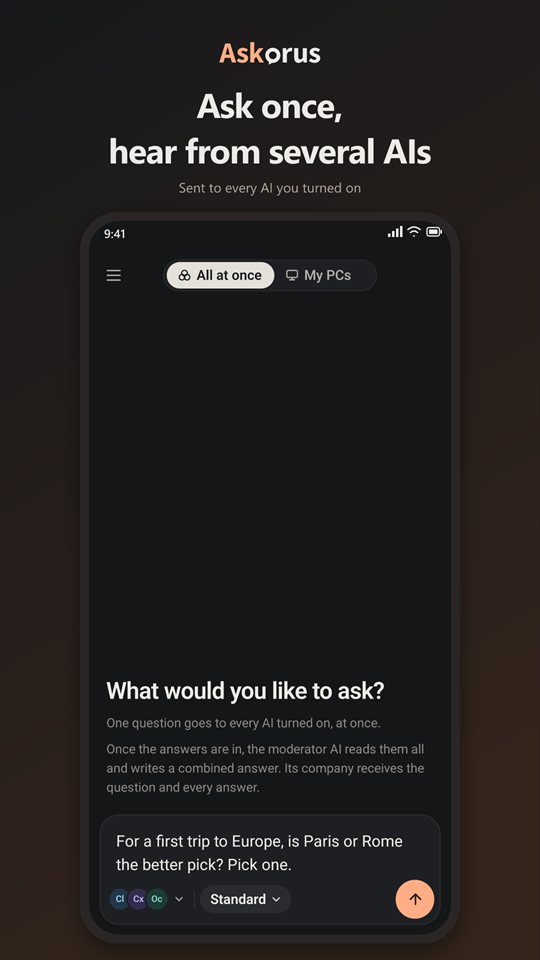
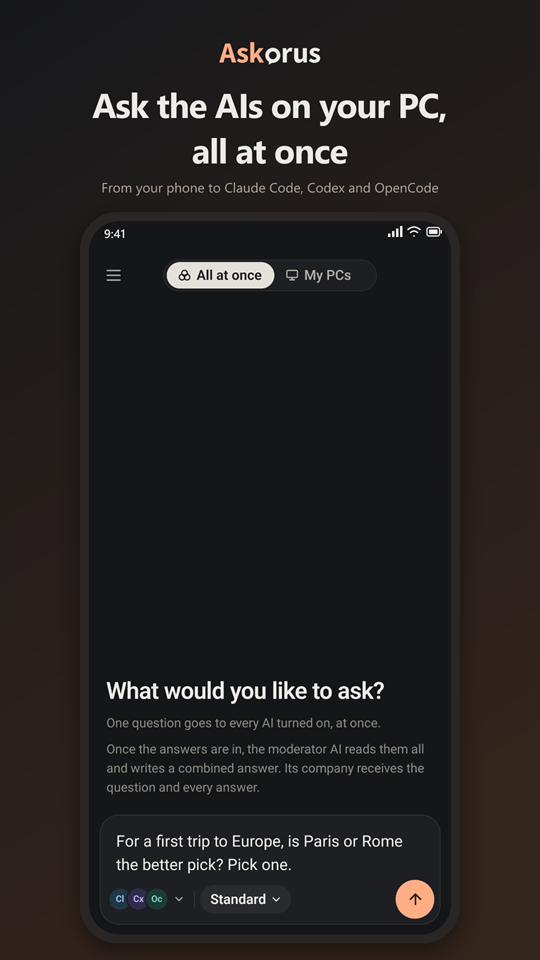
Store text and first screenshot say that a PC is needed (#32)
Someone who is not a developer could install the app from the store text
and the screenshots alone, and only then learn that it needs a PC.

- Short description: names Claude Code, Codex and OpenCode on your PC.
- Full description: a paragraph right after the first one says a PC is
  needed and points to "See an example"; "What you need" comes before
  "How it works"; step 2 says the AIs on your PC answer.
- The first screenshot's title, in the README too (light and dark):
  "Ask the AIs on your PC, all at once".

Claude-Session: https://claude.ai/code/session_01V4WFJV2hMpBfsxwvKkPqYw

Changed region(s): [[0.1778, 0.0938, 0.8296, 0.2188]]

diff --git a/docs/store/listing-en.md b/docs/store/listing-en.md
@@ -13,7 +13,7 @@ Askorus
 **Short description** (up to 80)
 
 ```
-You ask. The AIs debate. A moderator sums up their answers into a better one.
+Ask Claude Code, Codex and OpenCode on your PC from your phone. They debate.
 ```
 
 **Full description** (up to 4,000)
@@ -23,9 +23,17 @@ You ask. The AIs debate.
 
 Askorus asks one question to several AIs at once. When the answers are in, a moderator AI sums them up, and where the AIs disagree, they debate. Many AI answers, debated into a better one.
 
+You need your own PC. Askorus asks the AI programs installed on your PC (Claude Code, Codex, OpenCode) from your phone, and does not work with a phone alone. To see what it does without a PC, tap "See an example" on the first screen.
+
+WHAT YOU NEED
+- A PC with Windows, macOS or Linux
+- Tailscale on the PC and the phone (free for personal use)
+- At least one official AI program installed and signed in on the PC: Claude Code, Codex or OpenCode. Askorus uses the subscriptions and free accounts you already have.
+- The PC agent, askorus-agent. Where to get it and how to set it up is on the app's first screen and on GitHub.
+
 HOW IT WORKS
 1. Question: ask once, from your phone.
-2. Answers: every AI you turned on answers on its own.
+2. Answers: the AIs on your PC each answer on their own.
 3. Moderator: a moderator AI reads all the answers and writes one combined answer, and shows where the AIs agree and where they don't.
 4. Debate: if you like, the AIs debate the points where they differ. The moderator picks the points, each AI keeps or changes its view, and the result of every point is summed up at the end.
 
@@ -38,12 +46,6 @@ FEATURES
 - Your history stays on your phone
 - For developers: see, start and continue the Claude Code sessions on your own PC from your phone
 - English and Korean, light and dark
-
-WHAT YOU NEED
-- A PC with Windows, macOS or Linux
-- Tailscale on the PC and the phone (free for personal use)
-- At least one official AI program installed and signed in on the PC: Claude Code, Codex or OpenCode. Askorus uses the subscriptions and free accounts you already have.
-- The PC agent, askorus-agent. Where to get it and how to set it up is on the app's first screen and on GitHub.
 
 PRIVACY
 - Askorus has no server of its own. Your question goes from your phone to your PC, and the official AI programs on your PC send it to each AI company.
